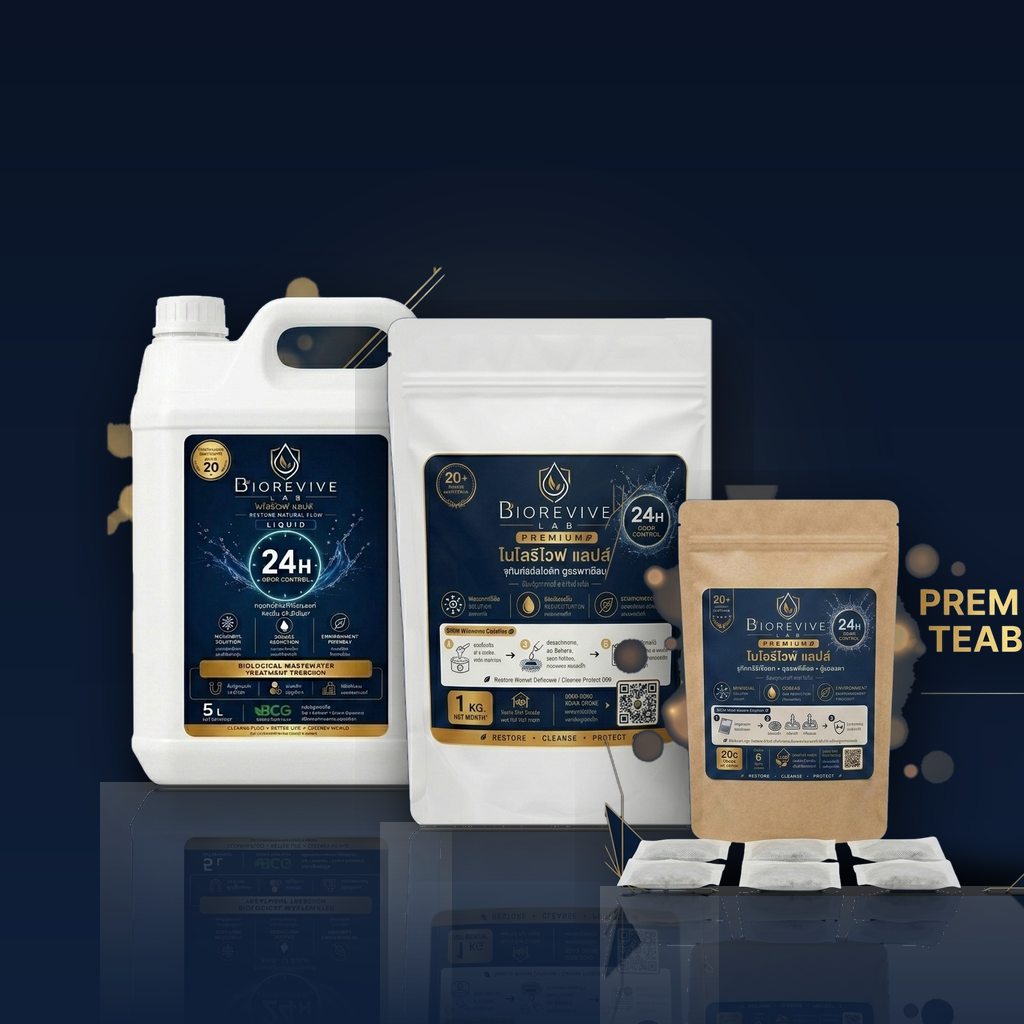
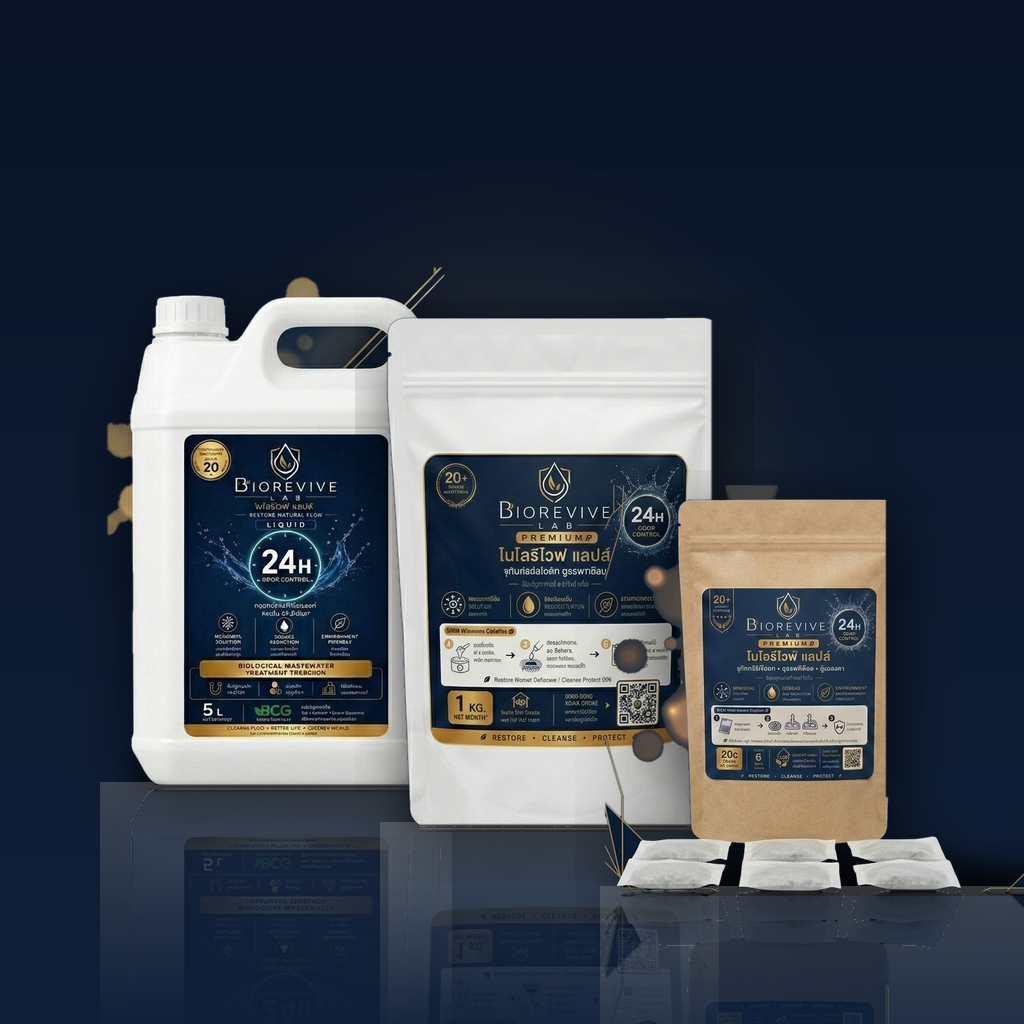
Erase floating premium teabag text from teabag cutout and regenerate promo sets

Changed region(s): [[0.8438, 0.4688, 1.0, 0.7812]]

diff --git a/diecut_catalog.py b/diecut_catalog.py
@@ -53,6 +53,10 @@ def diecut_product(img_name, bbox, thresh_fn, name):
     full_mask = np.zeros((h, w), dtype=np.uint8)
     full_mask[y1:y2, x1:x2] = solid_mask_roi
     
+    # Erase the floating text region on the right side of the teabag image
+    if name == "teabag_with_6teabags":
+        full_mask[180:780, 580:1000] = 0
+    
     # 5. Anti-alias the mask edges with a soft Gaussian blur on the mask
     # We create a smooth alpha channel
     alpha = cv2.GaussianBlur(full_mask, (5, 5), 0)
@@ -133,14 +137,13 @@ diecut_product(
     name="pouch_white_1kg"
 )
 
-# 4. Premium 6KG Bucket
-# catalog_bucket_6kg.png - Bucket in the center
-diecut_product(
-    "catalog_bucket_6kg.png",
-    bbox=(210, 180, 810, 830),
-    thresh_fn=thresh_bucket,
-    name="bucket_6kg"
-)
+# 4. Premium 6KG Bucket (Commented out to keep the perfect git restored version)
+# diecut_product(
+#     "catalog_bucket_6kg.png",
+#     bbox=(210, 180, 810, 830),
+#     thresh_fn=thresh_bucket,
+#     name="bucket_6kg"
+# )
 
 # 5. Teabag
 # catalog_teabag.png - Pouch and teabags
